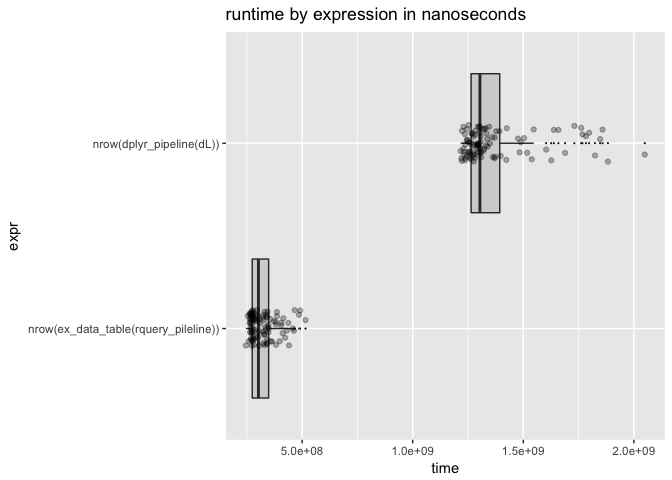
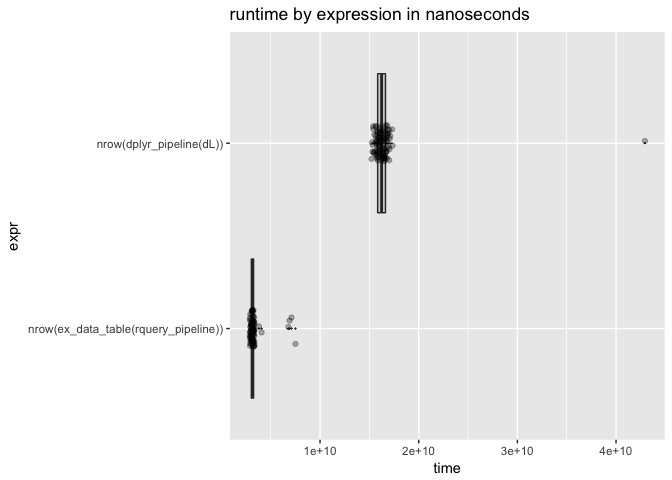
re-run example

diff --git a/extras/data_table.md b/extras/data_table.md
@@ -52,7 +52,7 @@ dL <- build_frame(
 scale <- 0.237
 
 # example rquery pipeline
-rquery_pileline <- local_td(dL) %.>%
+rquery_pipeline <- local_td(dL) %.>%
   extend_nse(.,
              one := 1) %.>%
   extend_nse(.,
@@ -75,7 +75,7 @@ rquery_pileline <- local_td(dL) %.>%
 Show expanded form of query tree.
 
 ``` r
-cat(format(rquery_pileline))
+cat(format(rquery_pipeline))
 ```
 
     table('dL'; 
@@ -102,7 +102,7 @@ cat(format(rquery_pileline))
 
 ``` r
 # execute
-ex_data_table(rquery_pileline) %.>%
+ex_data_table(rquery_pipeline) %.>%
   knitr::kable(.)
 ```
 
@@ -150,33 +150,33 @@ Timings.
 
 ``` r
 # fatten up data.frame a bit
-dL <- dL[rep(seq_len(nrow(dL)), 10000), , drop = FALSE]
+dL <- dL[rep(seq_len(nrow(dL)), 100000), , drop = FALSE]
 dL$subjectID <- paste(dL$subjectID, (1+seq_len(nrow(dL))) %/% 2, sep = "_")
 for(i in seq_len(10)) {
   dL[[paste0("irrelevantCol", i)]] <- runif(nrow(dL))
 }
 
 # show we are working on the new larger data
-system.time(print(nrow(ex_data_table(rquery_pileline))))
+system.time(print(nrow(ex_data_table(rquery_pipeline))))
 ```
 
-    ## [1] 20000
+    ## [1] 200000
 
     ##    user  system elapsed 
-    ##   0.510   0.015   0.285
+    ##   3.702   0.066   3.395
 
 ``` r
 system.time(print(nrow(dplyr_pipeline(dL))))
 ```
 
-    ## [1] 20000
+    ## [1] 200000
 
     ##    user  system elapsed 
-    ##   1.244   0.017   1.270
+    ##  16.881   0.165  17.116
 
 ``` r
 timings <- microbenchmark(
-  nrow(ex_data_table(rquery_pileline)),
+  nrow(ex_data_table(rquery_pipeline)),
   nrow(dplyr_pipeline(dL)))
 ```
 
@@ -184,13 +184,13 @@ timings <- microbenchmark(
 print(timings)
 ```
 
-    ## Unit: milliseconds
+    ## Unit: seconds
     ##                                  expr       min        lq      mean
-    ##  nrow(ex_data_table(rquery_pileline))  245.7367  274.3203  323.6974
-    ##              nrow(dplyr_pipeline(dL)) 1217.0533 1263.8712 1378.8133
+    ##  nrow(ex_data_table(rquery_pipeline))  2.864153  3.034936  3.307495
+    ##              nrow(dplyr_pipeline(dL)) 15.216550 15.828906 16.498627
     ##     median        uq       max neval
-    ##   302.3802  348.7881  515.1796   100
-    ##  1303.9606 1395.0246 2049.2771   100
+    ##   3.157655  3.263684  7.508477   100
+    ##  16.239003 16.637208 42.928718   100
 
 ``` r
 # summarize by hand using rquery database connector
@@ -203,10 +203,10 @@ timings %.>%
   knitr::kable(.)
 ```
 
-| expr                                    |        mean|
-|:----------------------------------------|-----------:|
-| nrow(dplyr\_pipeline(dL))               |  1378813259|
-| nrow(ex\_data\_table(rquery\_pileline)) |   323697401|
+| expr                                    |         mean|
+|:----------------------------------------|------------:|
+| nrow(dplyr\_pipeline(dL))               |  16498627225|
+| nrow(ex\_data\_table(rquery\_pipeline)) |   3307495474|
 
 ``` r
 autoplot(timings)
